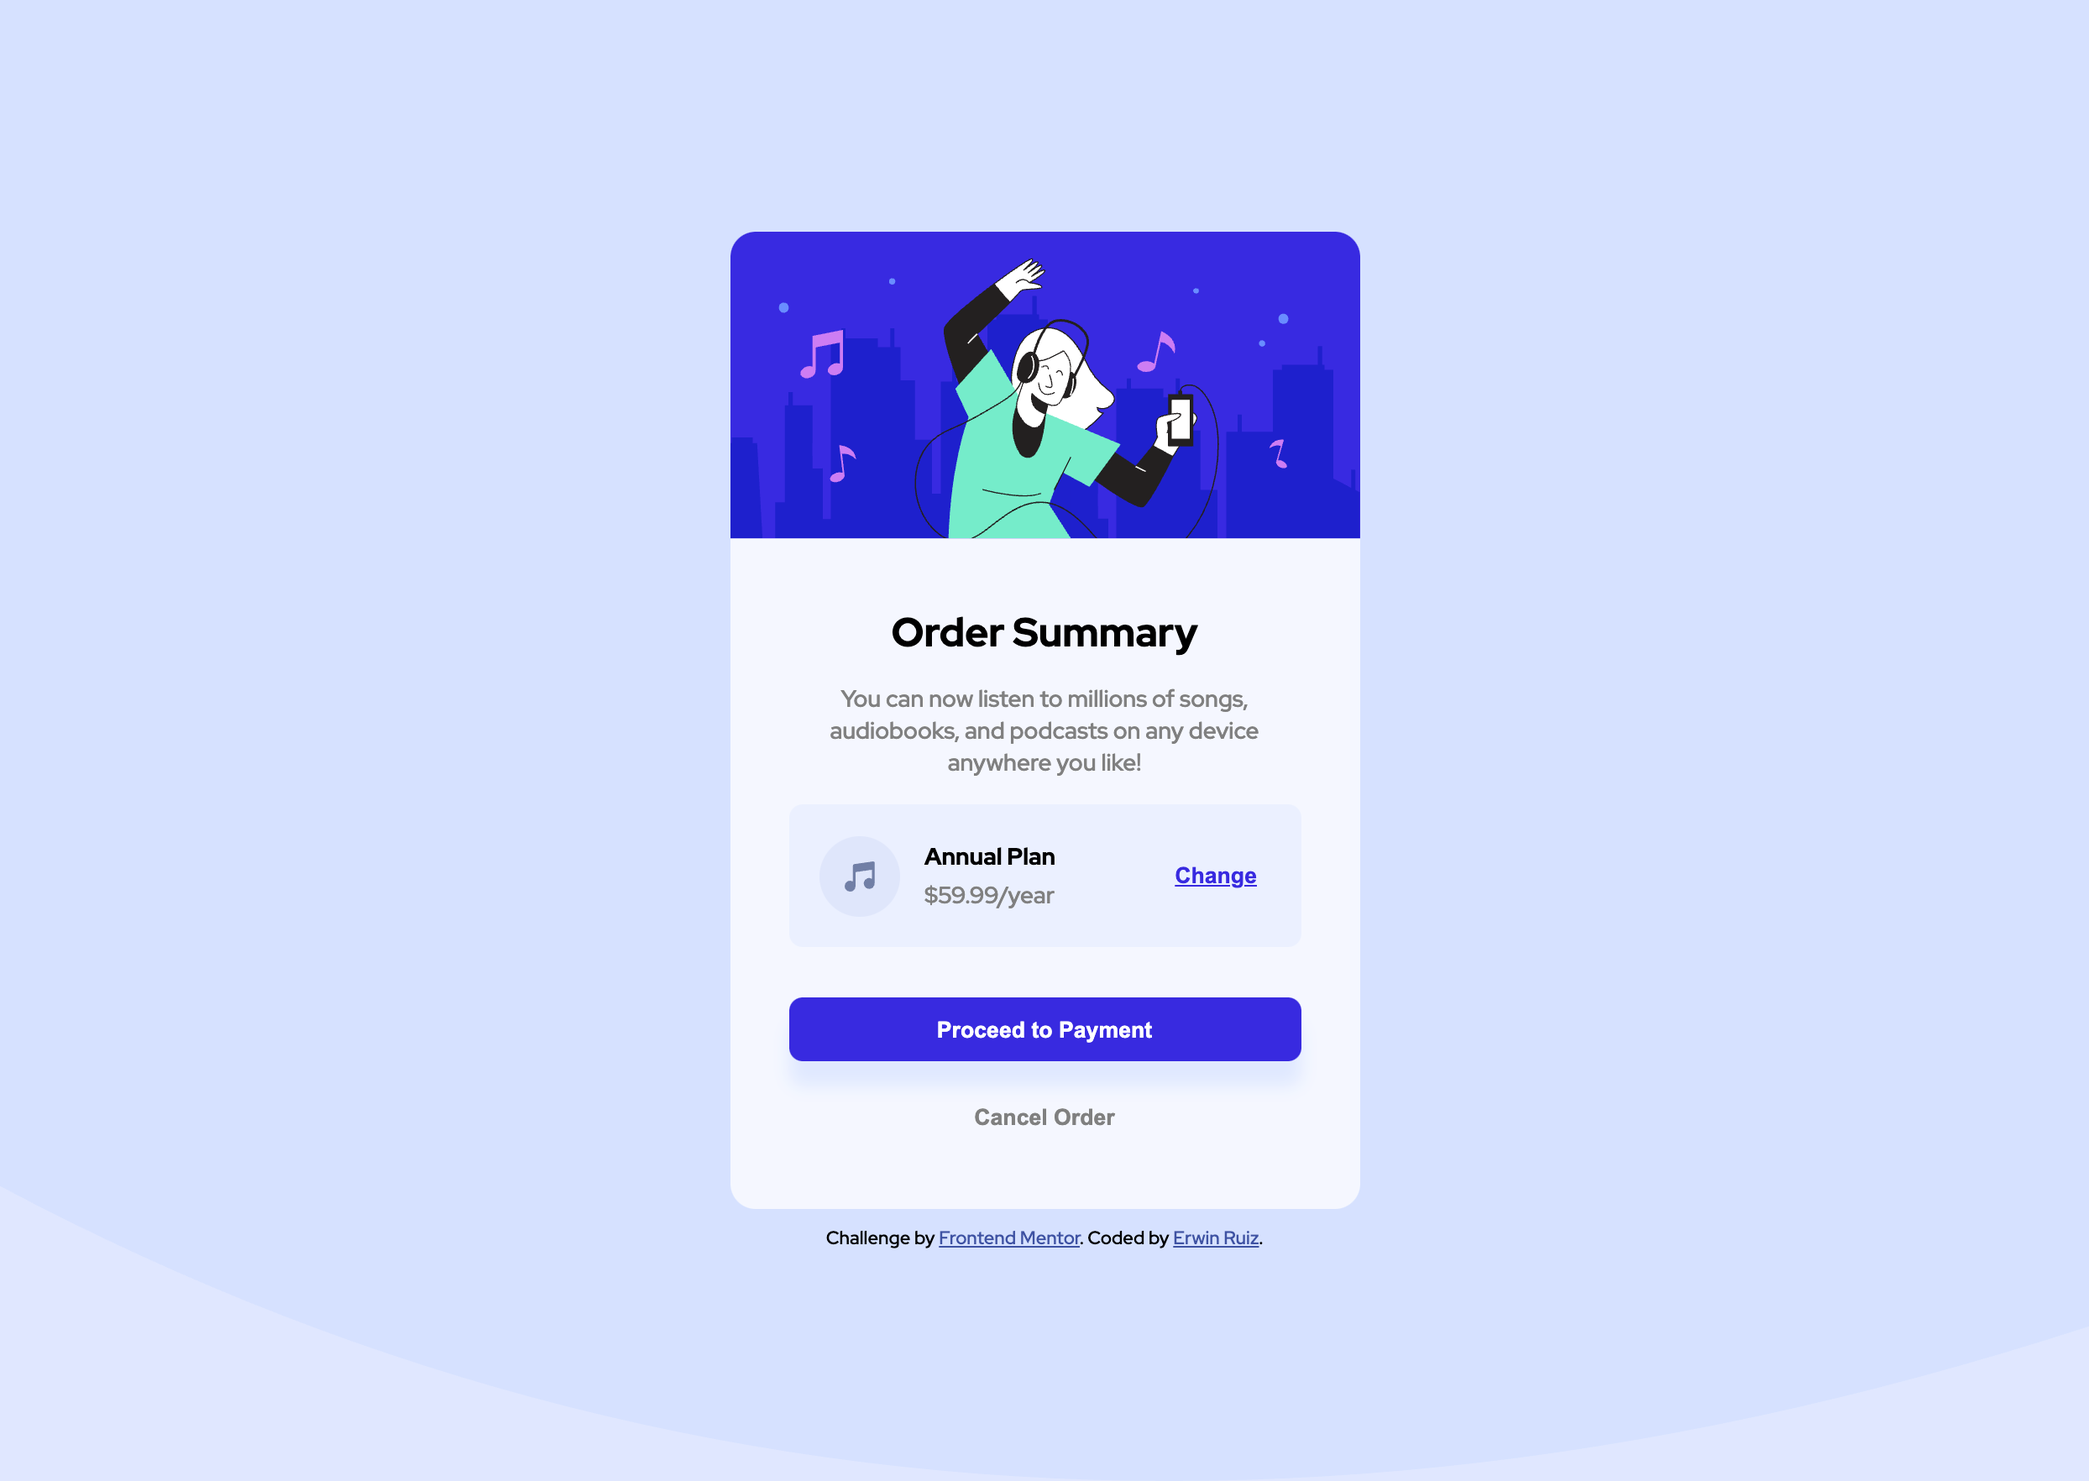
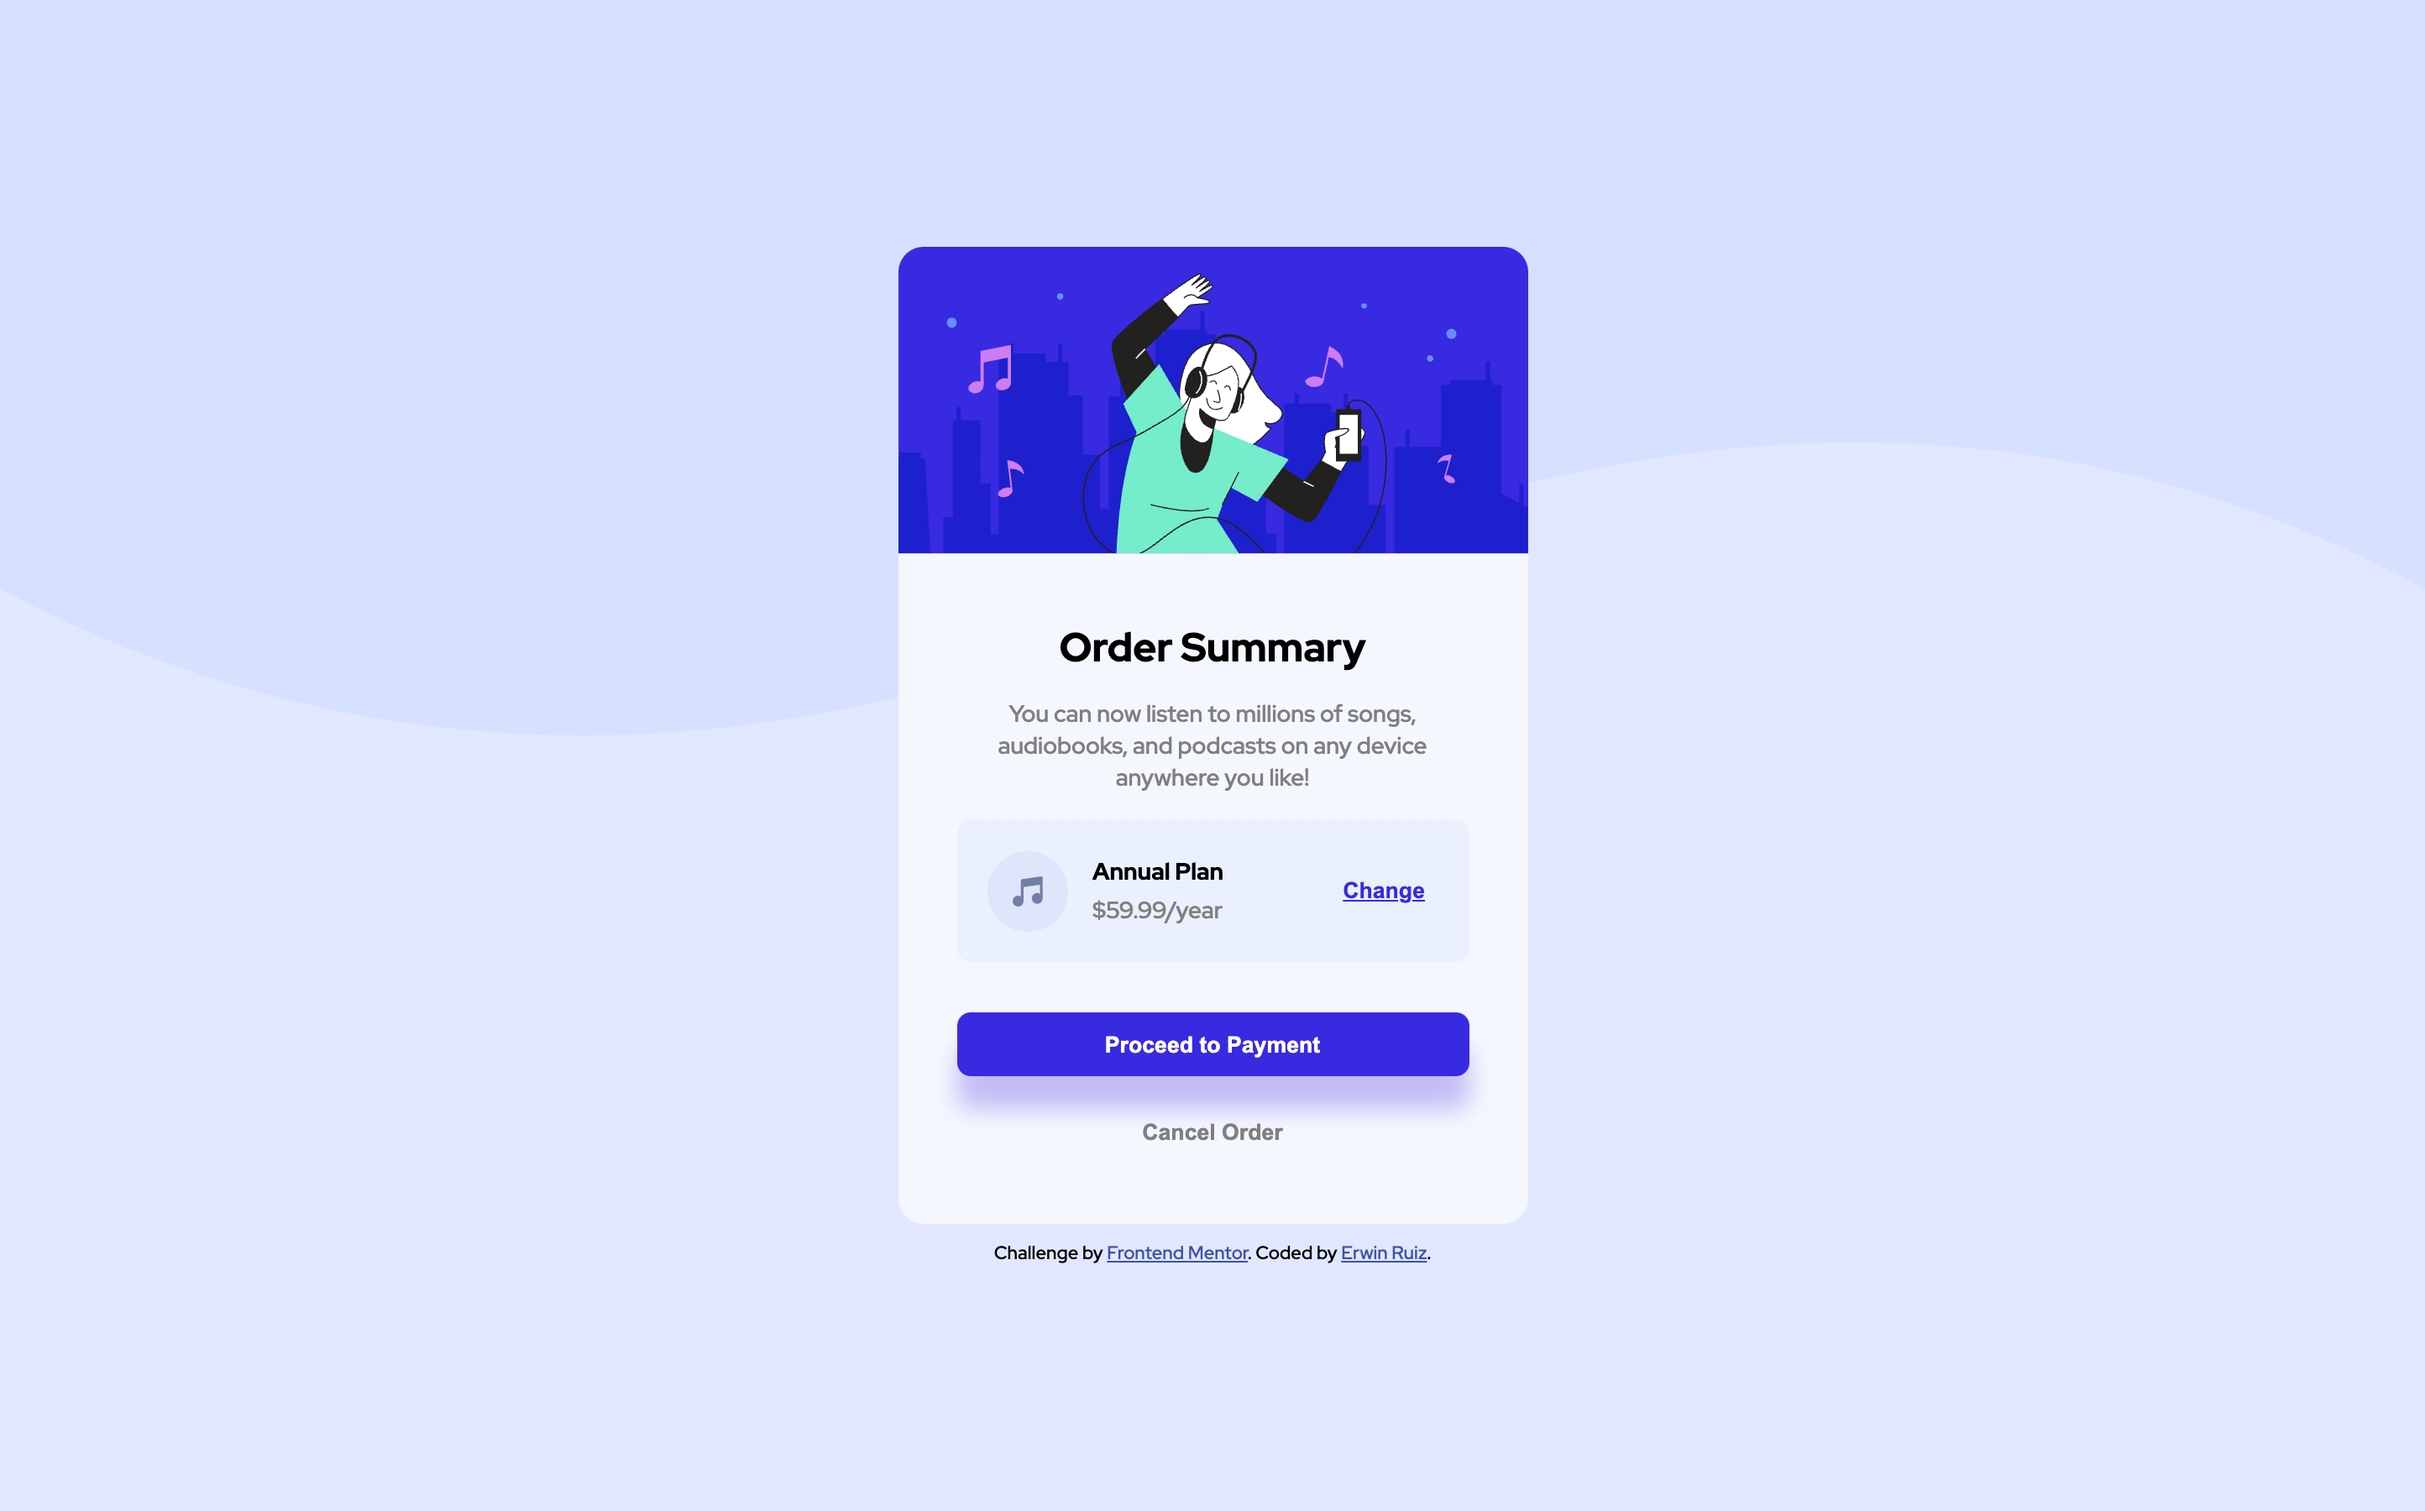
Update README.md

diff --git a/README.md b/README.md
@@ -1,6 +1,6 @@
 # Frontend Mentor - Order summary card solution
 
-This is a solution to the [Order summary card challenge on Frontend Mentor](https://www.frontendmentor.io/challenges/order-summary-component-QlPmajDUj). Frontend Mentor challenges help you improve your coding skills by building realistic projects. 
+This is a solution to the [Order summary card challenge on Frontend Mentor](https://www.frontendmentor.io/challenges/order-summary-component-QlPmajDUj). Frontend Mentor challenges help you improve your coding skills by building realistic projects.
 
 ## Table of contents
 
@@ -10,7 +10,6 @@ This is a solution to the [Order summary card challenge on Frontend Mentor](http
   - [Links](#links)
 - [My process](#my-process)
   - [Built with](#built-with)
-
 
 ## Overview
 
@@ -23,7 +22,7 @@ Users should be able to:
 ### Screenshot
 
 ![](./screenshots/desktop-design.png)
-
+![](./screenshots/mobile-design.png)
 
 ### Links
 
@@ -37,3 +36,8 @@ Users should be able to:
 - CSS custom properties
 - Flexbox
 - Mobile-first workflow
+
+The designs were created to the following widths:
+
+- Mobile: 375px
+- Desktop: 1440px
